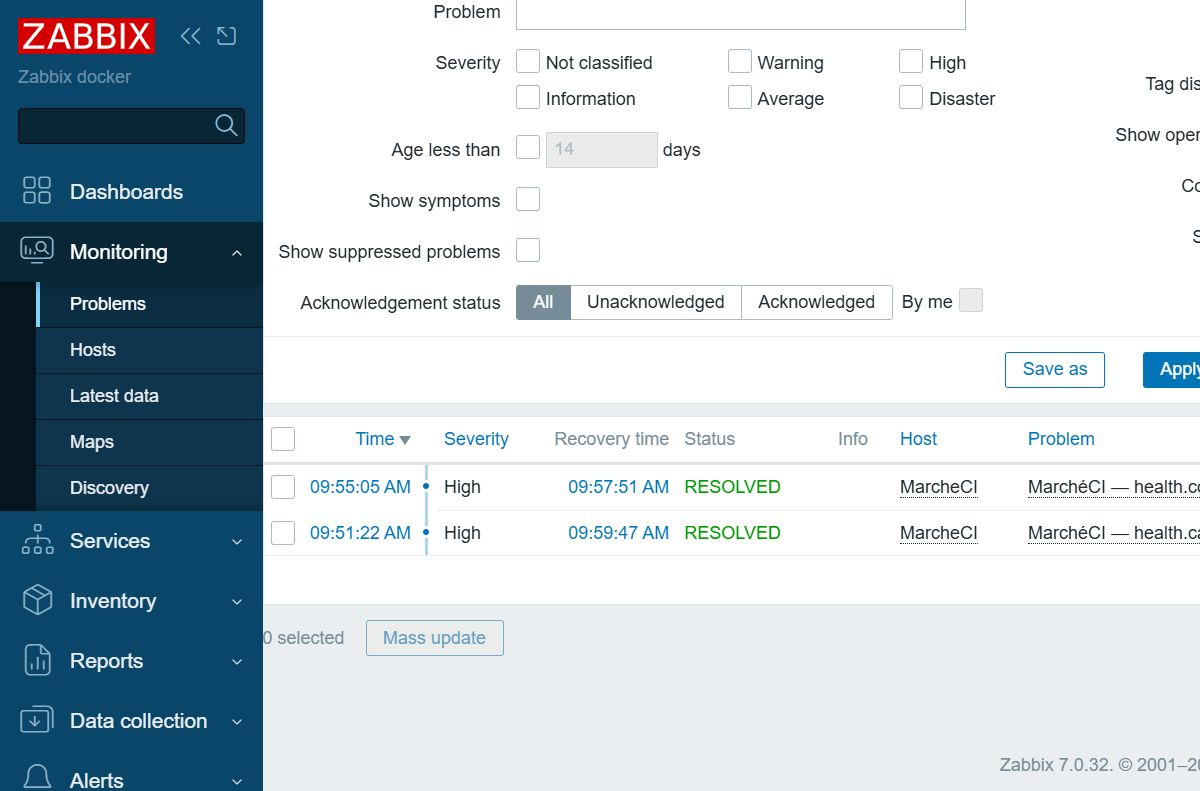
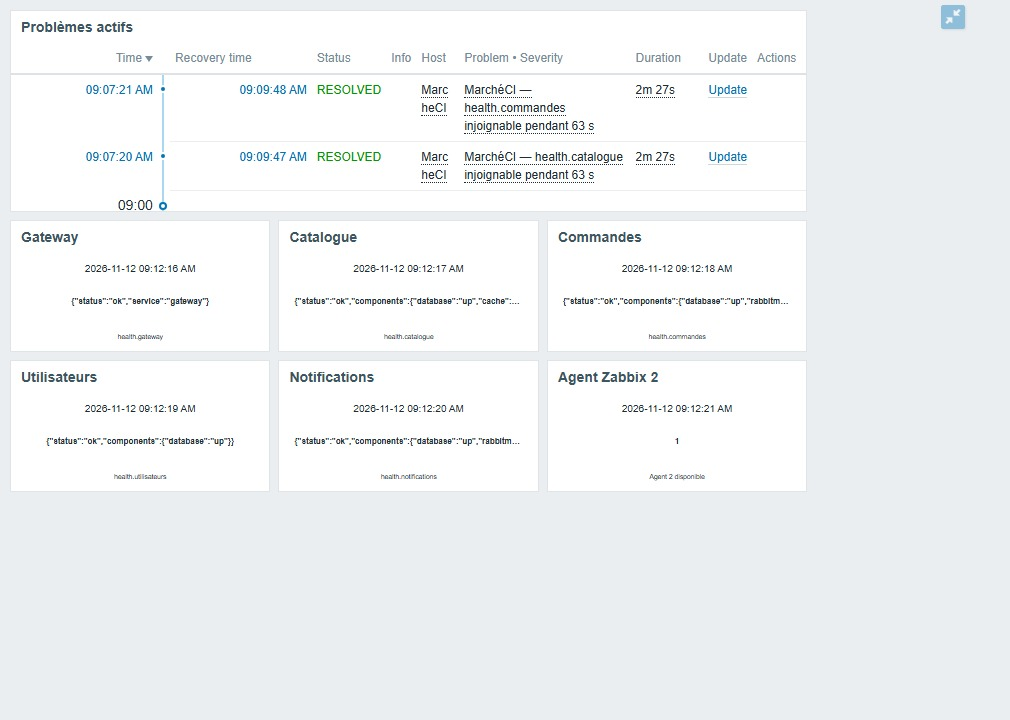
Documente les tests de charge et la supervision Zabbix

diff --git a/monitoring/zabbix/dashboard.py b/monitoring/zabbix/dashboard.py
@@ -1,0 +1,128 @@
+r"""Crée ou met à jour le tableau de bord Zabbix « MarcheCI - Supervision ».
+
+Le script est idempotent : un tableau de bord existant portant le même nom est
+mis à jour (même identifiant). Il suppose que `provisioning.py` a déjà créé
+l'hôte et les sondes HTTP. Utilisation, depuis la racine du dépôt :
+
+    .\.venv\Scripts\python.exe monitoring\zabbix\dashboard.py
+"""
+
+import sys
+from pathlib import Path
+
+sys.path.insert(0, str(Path(__file__).resolve().parent))
+
+import provisioning as p  # noqa: E402  (dépend du chemin ajouté ci-dessus)
+
+NOM = "MarcheCI - Supervision"
+
+# Ordre d'affichage des tuiles, sur trois colonnes de 16 unités.
+TUILES = [
+    ("health.gateway", "Gateway"),
+    ("health.catalogue", "Catalogue"),
+    ("health.commandes", "Commandes"),
+    ("health.utilisateurs", "Utilisateurs"),
+    ("health.notifications", "Notifications"),
+    ("agent.ping", "Agent Zabbix 2"),
+]
+
+
+def construire_widgets(hostid: str, itemids: dict[str, str]) -> list[dict]:
+    """Widgets : liste des problèmes actifs puis une tuile par sonde."""
+    widgets = [
+        {
+            "type": "problems",
+            "name": "Problèmes actifs",
+            "x": 0,
+            "y": 0,
+            "width": 48,
+            "height": 3,
+            "view_mode": 0,
+            "fields": [
+                {"type": 3, "name": "hostids.0", "value": hostid},
+                # 2 = mode « Problèmes » du widget (valeurs acceptées : 1, 2, 3).
+                {"type": 0, "name": "show", "value": 2},
+                {"type": 0, "name": "show_recovery_time", "value": 0},
+                {"type": 0, "name": "show_info", "value": 0},
+                {"type": 0, "name": "show_host", "value": 0},
+                {"type": 0, "name": "show_update", "value": 0},
+                {"type": 0, "name": "show_actions", "value": 0},
+            ],
+        }
+    ]
+    for position, (cle, libelle) in enumerate(TUILES):
+        widgets.append(
+            {
+                "type": "item",
+                "name": libelle,
+                "x": (position % 3) * 16,
+                "y": 3 + (position // 3) * 2,
+                "width": 16,
+                "height": 2,
+                "view_mode": 0,
+                "fields": [
+                    {"type": 4, "name": "itemid.0", "value": itemids[cle]},
+                    {"type": 0, "name": "value_size", "value": 12},
+                    {"type": 0, "name": "desc_size", "value": 10},
+                ],
+            }
+        )
+    return widgets
+
+
+def main() -> None:
+    z = p.Zbx()
+    z.login_wait(*p.get_admin_credentials())
+
+    hotes = z.call("host.get", {"filter": {"host": p.HOST_NAME}})
+    if not hotes:
+        raise RuntimeError(f"Hôte '{p.HOST_NAME}' absent : exécuter provisioning.py d'abord.")
+    hostid = hotes[0]["hostid"]
+
+    itemids = {i["key_"]: i["itemid"] for i in z.call("item.get", {"hostids": hostid})}
+    manquants = [cle for cle, _ in TUILES if cle not in itemids]
+    if manquants:
+        raise RuntimeError(f"Sondes manquantes : {', '.join(manquants)}")
+
+    widgets = construire_widgets(hostid, itemids)
+    existants = [
+        d for d in z.call("dashboard.get", {"output": ["dashboardid", "name"]}) if d["name"] == NOM
+    ]
+    if existants:
+        dashboardid = existants[0]["dashboardid"]
+        detail = z.call(
+            "dashboard.get",
+            {"dashboardids": [dashboardid], "selectPages": "extend"},
+        )[0]
+        page = detail["pages"][0]
+        z.call(
+            "dashboard.update",
+            {
+                "dashboardid": dashboardid,
+                "pages": [
+                    {
+                        "dashboard_pageid": page["dashboard_pageid"],
+                        "name": page["name"],
+                        "display_period": page["display_period"],
+                        "widgets": widgets,
+                    }
+                ],
+            },
+        )
+        print(f"Tableau de bord « {NOM} » mis à jour : dashboardid={dashboardid}")
+        return
+
+    resultat = z.call(
+        "dashboard.create",
+        {
+            "name": NOM,
+            "display_period": 30,
+            "auto_start": 1,
+            "pages": [{"name": "Vue d'ensemble", "widgets": widgets}],
+        },
+    )
+    print(f"Tableau de bord « {NOM} » créé : dashboardid={resultat['dashboardids'][0]}")
+
+
+if __name__ == "__main__":
+    main()

diff --git a/README.md b/README.md
@@ -124,6 +124,7 @@ de l’hôte et des paramètres de la passerelle.
    .\.venv\Scripts\python.exe monitoring\zabbix\configure_zabbix_admin.py
    $env:ZABBIX_API_URL = 'http://127.0.0.1:8090/api_jsonrpc.php'
    .\.venv\Scripts\python.exe monitoring\zabbix\provisioning.py verify
+   .\.venv\Scripts\python.exe monitoring\zabbix\dashboard.py
    ```
 
    L’interface est disponible sur `http://127.0.0.1:8090` avec les paramètres
@@ -171,22 +172,24 @@ indisponibles. Catalogue traite Redis comme un cache facultatif et signale son
 
 ## Tests et vérifications
 
-Lancer les suites de service (les tests Commandes, Utilisateurs et Notifications
-importent aussi `conftest.py` depuis `tests/`) :
+Lancer les suites unitaires depuis la racine du dépôt. Chaque suite importe le
+code du service (`services/<service>`) et son `conftest.py`
+(`tests/unit/<service>`) via `PYTHONPATH` :
 
 ```powershell
-Set-Location services/catalogue
-..\..\.venv\Scripts\pytest.exe -q -p no:cacheprovider
-Set-Location ../commandes
-$env:PYTHONPATH = (Join-Path (Get-Location) 'tests')
-..\..\.venv\Scripts\pytest.exe -q -p no:cacheprovider
-Set-Location ../utilisateurs
-$env:PYTHONPATH = (Join-Path (Get-Location) 'tests')
-..\..\.venv\Scripts\pytest.exe -q -p no:cacheprovider
-Set-Location ../notifications
-$env:PYTHONPATH = (Join-Path (Get-Location) 'tests')
-..\..\.venv\Scripts\pytest.exe -q -p no:cacheprovider
-Set-Location ../..
+$env:PYTHONPATH = "services\catalogue;tests\unit\catalogue"
+.\.venv\Scripts\python.exe -m pytest tests\unit\catalogue -q
+
+$env:PYTHONPATH = "services\commandes;tests\unit\commandes"
+.\.venv\Scripts\python.exe -m pytest tests\unit\commandes -q
+
+$env:PYTHONPATH = "services\utilisateurs;tests\unit\utilisateurs"
+.\.venv\Scripts\python.exe -m pytest tests\unit\utilisateurs -q
+
+$env:PYTHONPATH = "services\notifications;tests\unit\notifications"
+.\.venv\Scripts\python.exe -m pytest tests\unit\notifications -q
+
+Remove-Item Env:PYTHONPATH
 ```
 
 Les tests HTTP en processus séparés sont dans `tests/integration/`; ils utilisent
@@ -226,6 +229,9 @@ build réussit et `npm run lint` termine sans avertissement.
 - `monitoring/zabbix/provisioning.py verify` provisionne les sondes HTTP et vérifie
   leur collecte. Le mode `alerte` arrête volontairement toutes les répliques du
   Catalogue; ne le lancer que sur un environnement de démonstration isolé.
+- `monitoring/zabbix/dashboard.py` crée ou met à jour le tableau de bord
+  « MarcheCI - Supervision » : liste des problèmes actifs et une tuile par sonde.
+  À exécuter après le provisionnement lorsque l’hôte et les items existent.
 - Les scénarios k6 sont dans `tests/load/`. Ils lisent Catalogue, mais
   l’orchestrateur fourni arrête Commandes pendant le test de résilience et lance
   les variations d’échelle sur le projet Compose courant. Exécuter ces scénarios
@@ -233,6 +239,14 @@ build réussit et `npm run lint` termine sans avertissement.
 - Les résultats de référence sont conservés dans `docs/reports/`
   (`load_1replica.json`, `load_3replicas.json`, `resilience.json`) et les données
   détaillées dans `docs/reports/raw/`.
+- Le [rapport de test de charge](docs/reports/rapport_test_charge.md) consigne le
+  protocole, les tableaux requêtes/s et latence p95 pour une et trois répliques du
+  Catalogue, l’analyse et les optimisations retenues.
+- Les captures de supervision sont dans `docs/screenshots/` : tableau de bord
+  nominal (`06_tableau_de_bord_zabbix.jpeg`), problème détecté à l’arrêt du
+  Catalogue (`06_problem_actif_dashboard.jpeg`,
+  `06_problem_actif_catalogue.jpeg`) et résolution automatique au redémarrage
+  (`06_problems_resolus_auto.jpeg`).
 
 ## Documentation technique
 
@@ -240,4 +254,5 @@ build réussit et `npm run lint` termine sans avertissement.
 - [Modèles de données](docs/architecture/02-modeles-de-donnees.md)
 - [Contrats des API](docs/api/specifications-api.md)
 - [Réseaux et communications](docs/architecture/04-reseaux-et-communications.md)
+- [Rapport de test de charge](docs/reports/rapport_test_charge.md)
 - [Dossier technique (PDF)](docs/reports/Dossier_technique_MarcheCI.pdf)

diff --git a/docs/reports/rapport_test_charge.md b/docs/reports/rapport_test_charge.md
@@ -1,0 +1,91 @@
+# Rapport de test de charge — Catalogue
+
+## 1. Objectif
+
+Mesurer l'impact du passage de **1 à 3 répliques** du service Catalogue sur le
+débit et la latence, en conservant une charge identique et un trafic passant
+exclusivement par la passerelle Nginx (`http://localhost/api/catalogue/`).
+
+## 2. Protocole
+
+| Paramètre | Valeur |
+| --- | --- |
+| Scénario k6 | `tests/load/load_catalogue.js` |
+| Charge | montée en 20 s jusqu'à 50 utilisateurs virtuels, palier de 40 s, descente de 10 s |
+| Répartition du trafic | 70 % liste page 1 (chemin cache Redis), 30 % recherches uniques (chemin PostgreSQL) |
+| Cible | passerelle Nginx → service Catalogue |
+| Image k6 | `grafana/k6:1.0.0` |
+| Seuils d'acceptation | cache p95 < 800 ms, base p95 < 1500 ms, checks > 99 % |
+
+L'orchestrateur `tests/load/orchestrateur.py` applique `docker compose up -d
+--scale catalogue=<n>` puis attend la stabilisation avant chaque exécution.
+
+## 3. Résultats
+
+| Indicateur | 1 réplique | 3 répliques | Écart |
+| --- | ---: | ---: | ---: |
+| Requêtes totales | 2 268 | 2 664 | +17 % |
+| Débit (requêtes/s) | 32,0 | 37,8 | +18 % |
+| p95 global (ms) | 672 | 89 | −87 % |
+| p95 cache Redis (ms) | 653 | 71 | −89 % |
+| p95 PostgreSQL (ms) | 697 | 115 | −83 % |
+| Erreurs | 0 | 0 | — |
+
+### Détail par chemin
+
+| Chemin | Requêtes | p50 (ms) | p95 (ms) | Max (ms) |
+| --- | ---: | ---: | ---: | ---: |
+| Cache Redis — 1 réplique | 1 591 | 132 | 653 | 892 |
+| Cache Redis — 3 répliques | 1 852 | 26 | 71 | 346 |
+| PostgreSQL — 1 réplique | 677 | 196 | 697 | 910 |
+| PostgreSQL — 3 répliques | 812 | 43 | 115 | 493 |
+
+## 4. Analyse
+
+- Les deux configurations respectent les seuils : le p95 du chemin cache reste
+  sous 800 ms et celui du chemin base sous 1 500 ms.
+- La répartition sur trois répliques divise le p95 global par plus de sept et
+  absorbe 18 % de requêtes supplémentaires sur la même fenêtre de test.
+- Les deux chemins progressent : la latence du cache chute de 89 %, celle de la
+  base de 83 %. Le gain ne provient donc pas uniquement du cache mais bien de la
+  parallélisation du traitement applicatif.
+- Aucune erreur HTTP n'a été enregistrée dans les deux configurations.
+
+## 5. Optimisations appliquées avant la mesure
+
+Deux corrections ont été nécessaires pour que le test mesure le service et non
+la passerelle :
+
+1. **Passerelle Nginx** : les `proxy_pass` avec variable ouvraient une connexion
+   TCP vers l'amont à chaque requête. Le routage utilise désormais des
+   `upstream` avec `server ... resolve` et `keepalive`, ce qui conserve la
+   découverte dynamique des répliques (scaling à chaud) tout en réutilisant les
+   connexions.
+2. **Service Catalogue** : le client Redis était instancié à chaque requête et
+   exécutait un `PING` de contrôle avant chaque lecture. Le client est désormais
+   unique par processus, avec le pool de connexions thread-safe de `redis-py`.
+
+## 6. Reproduction
+
+```powershell
+# Pile démarrée et stabilisée
+docker compose up -d
+
+# Comparaison 1 vs 3 répliques
+.\.venv\Scripts\python.exe tests\load\orchestrateur.py charge
+```
+
+Les résultats bruts sont écrits dans `docs/reports/load_1replica.json`,
+`docs/reports/load_3replicas.json` et `docs/reports/comparatif_machines.json`.
+
+## 7. Environnement de mesure
+
+| Élément | Valeur |
+| --- | --- |
+| Processeur | Intel Core i7-10510U (4 cœurs / 8 threads) |
+| Mémoire allouée à Docker | 8 Go |
+| Système | Windows, Docker Desktop |
+| Date de l'exécution | 11 novembre 2026 |
+
+Les valeurs restent dépendantes de la machine hôte : elles servent à comparer
+les deux configurations entre elles, pas à établir une capacité absolue.
